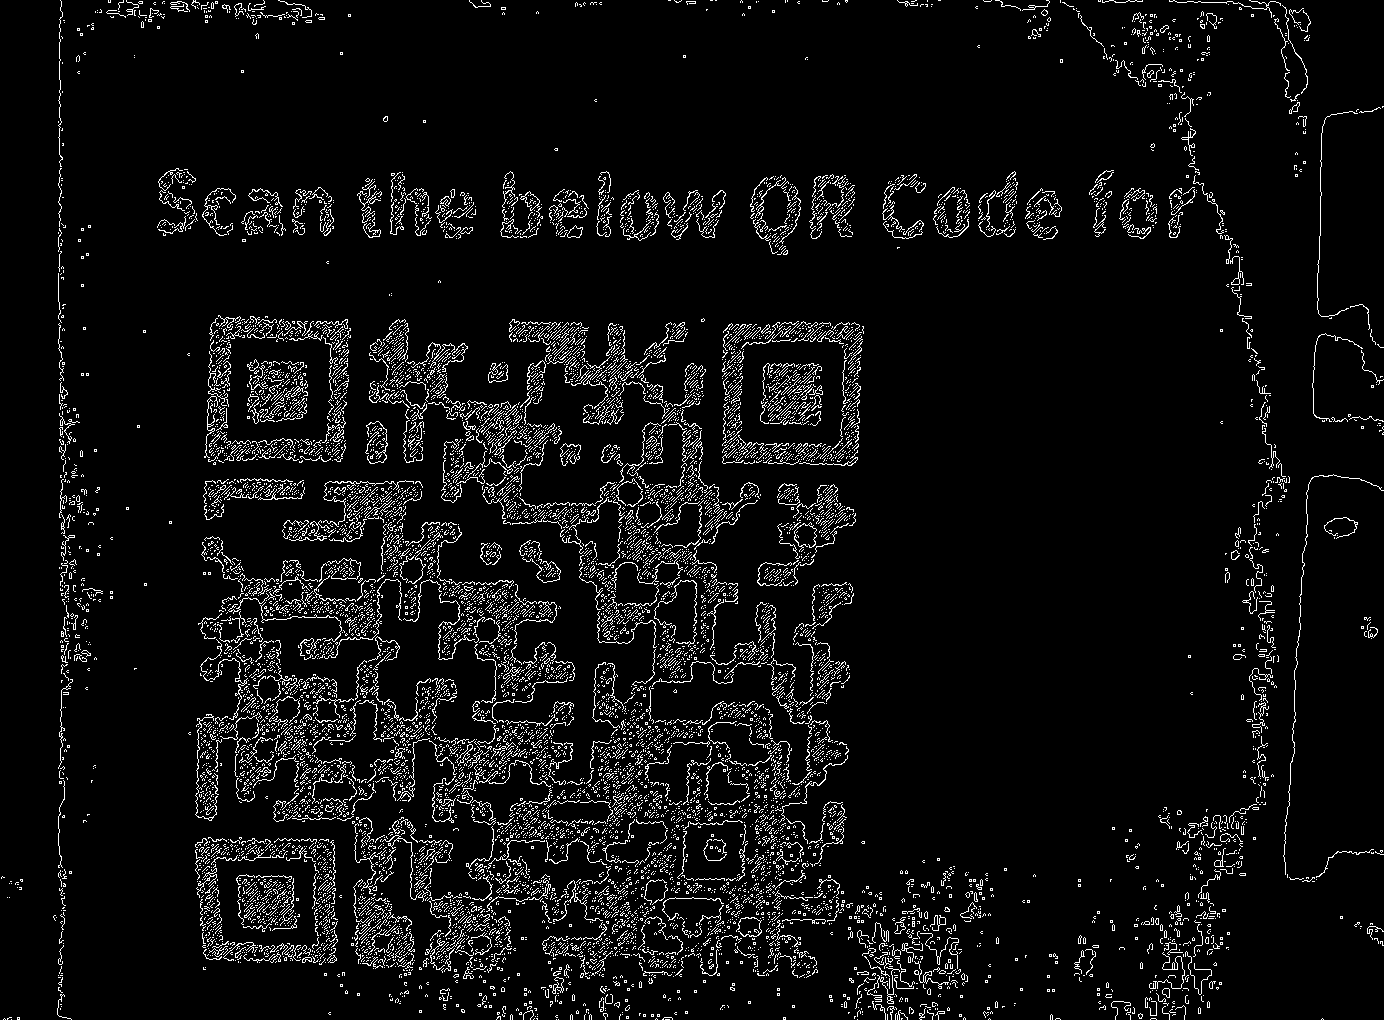
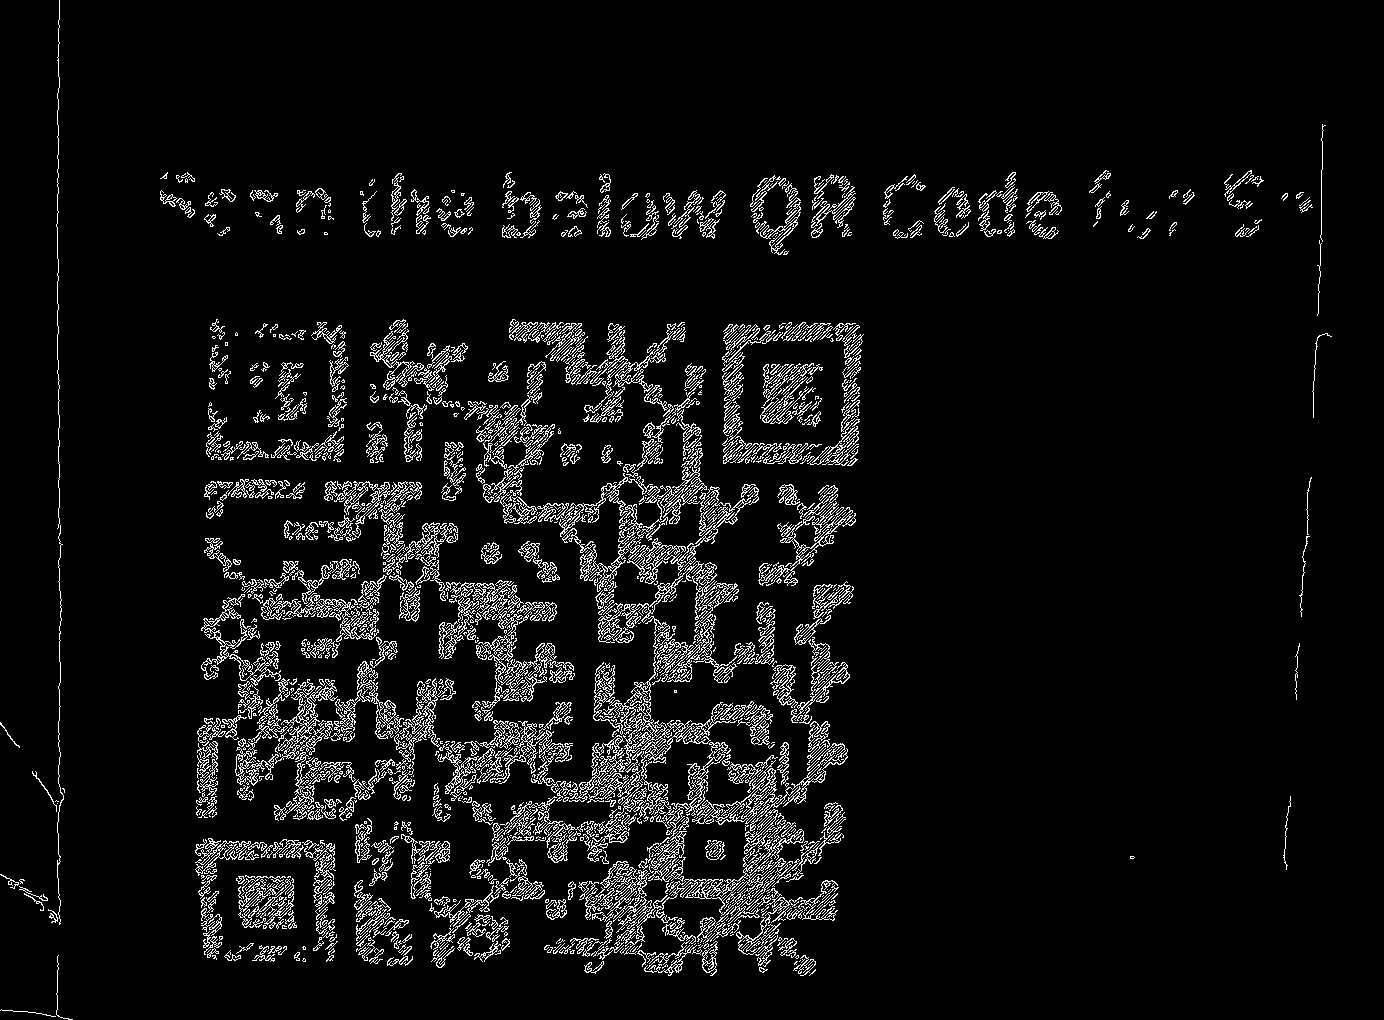
edge detection done on wrong image

diff --git a/main.py b/main.py
@@ -7,7 +7,7 @@ print(th)
 # contours, hierarchy = cv2.findContours(im_th_gray, cv2.RETR_TREE, cv2.CHAIN_APPROX_SIMPLE)
 # im_color = cv2.cvtColor(im_th_gray, cv2.COLOR_GRAY2BGR)
 # cv2.drawContours(im_color, contours, -1, (0, 0, 255), 1)
-edges = cv2.Canny(image=im_th_gray, threshold1=100, threshold2=200)
+edges = cv2.Canny(image=image, threshold1=70, threshold2=200)
 cv2.imwrite('qr2.png', edges)
 
 # otsu bad 170 b/w
